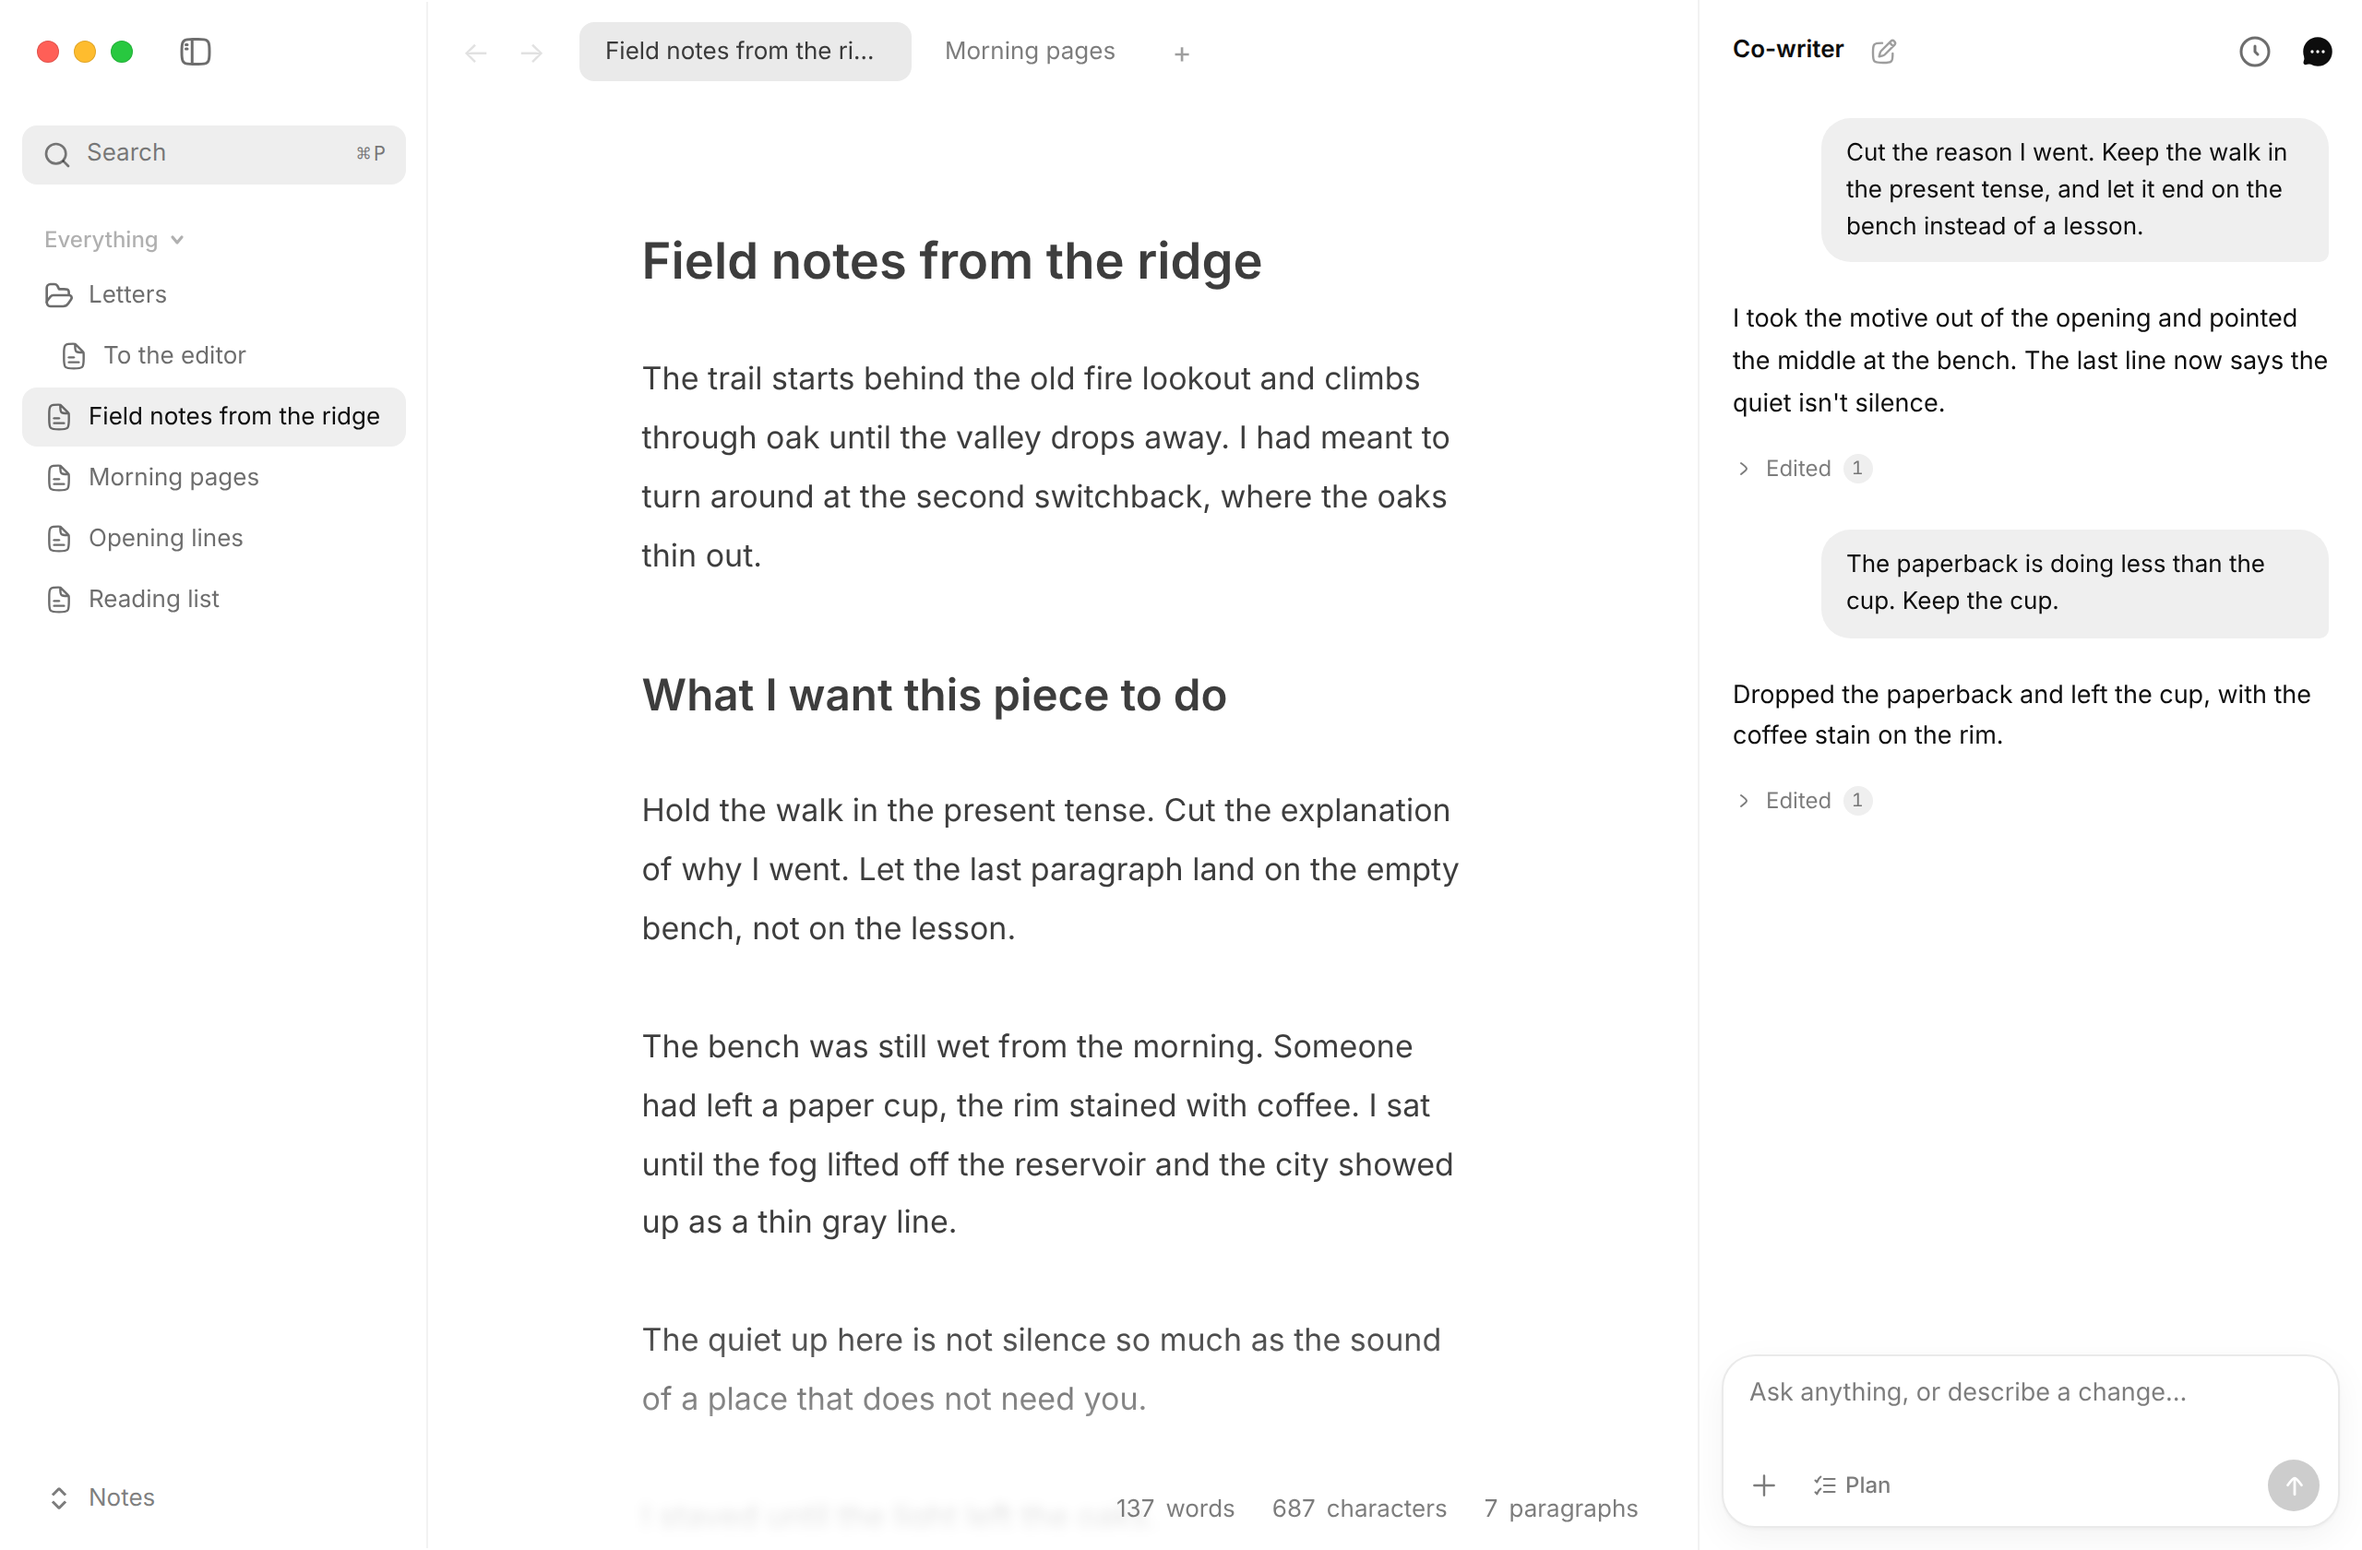
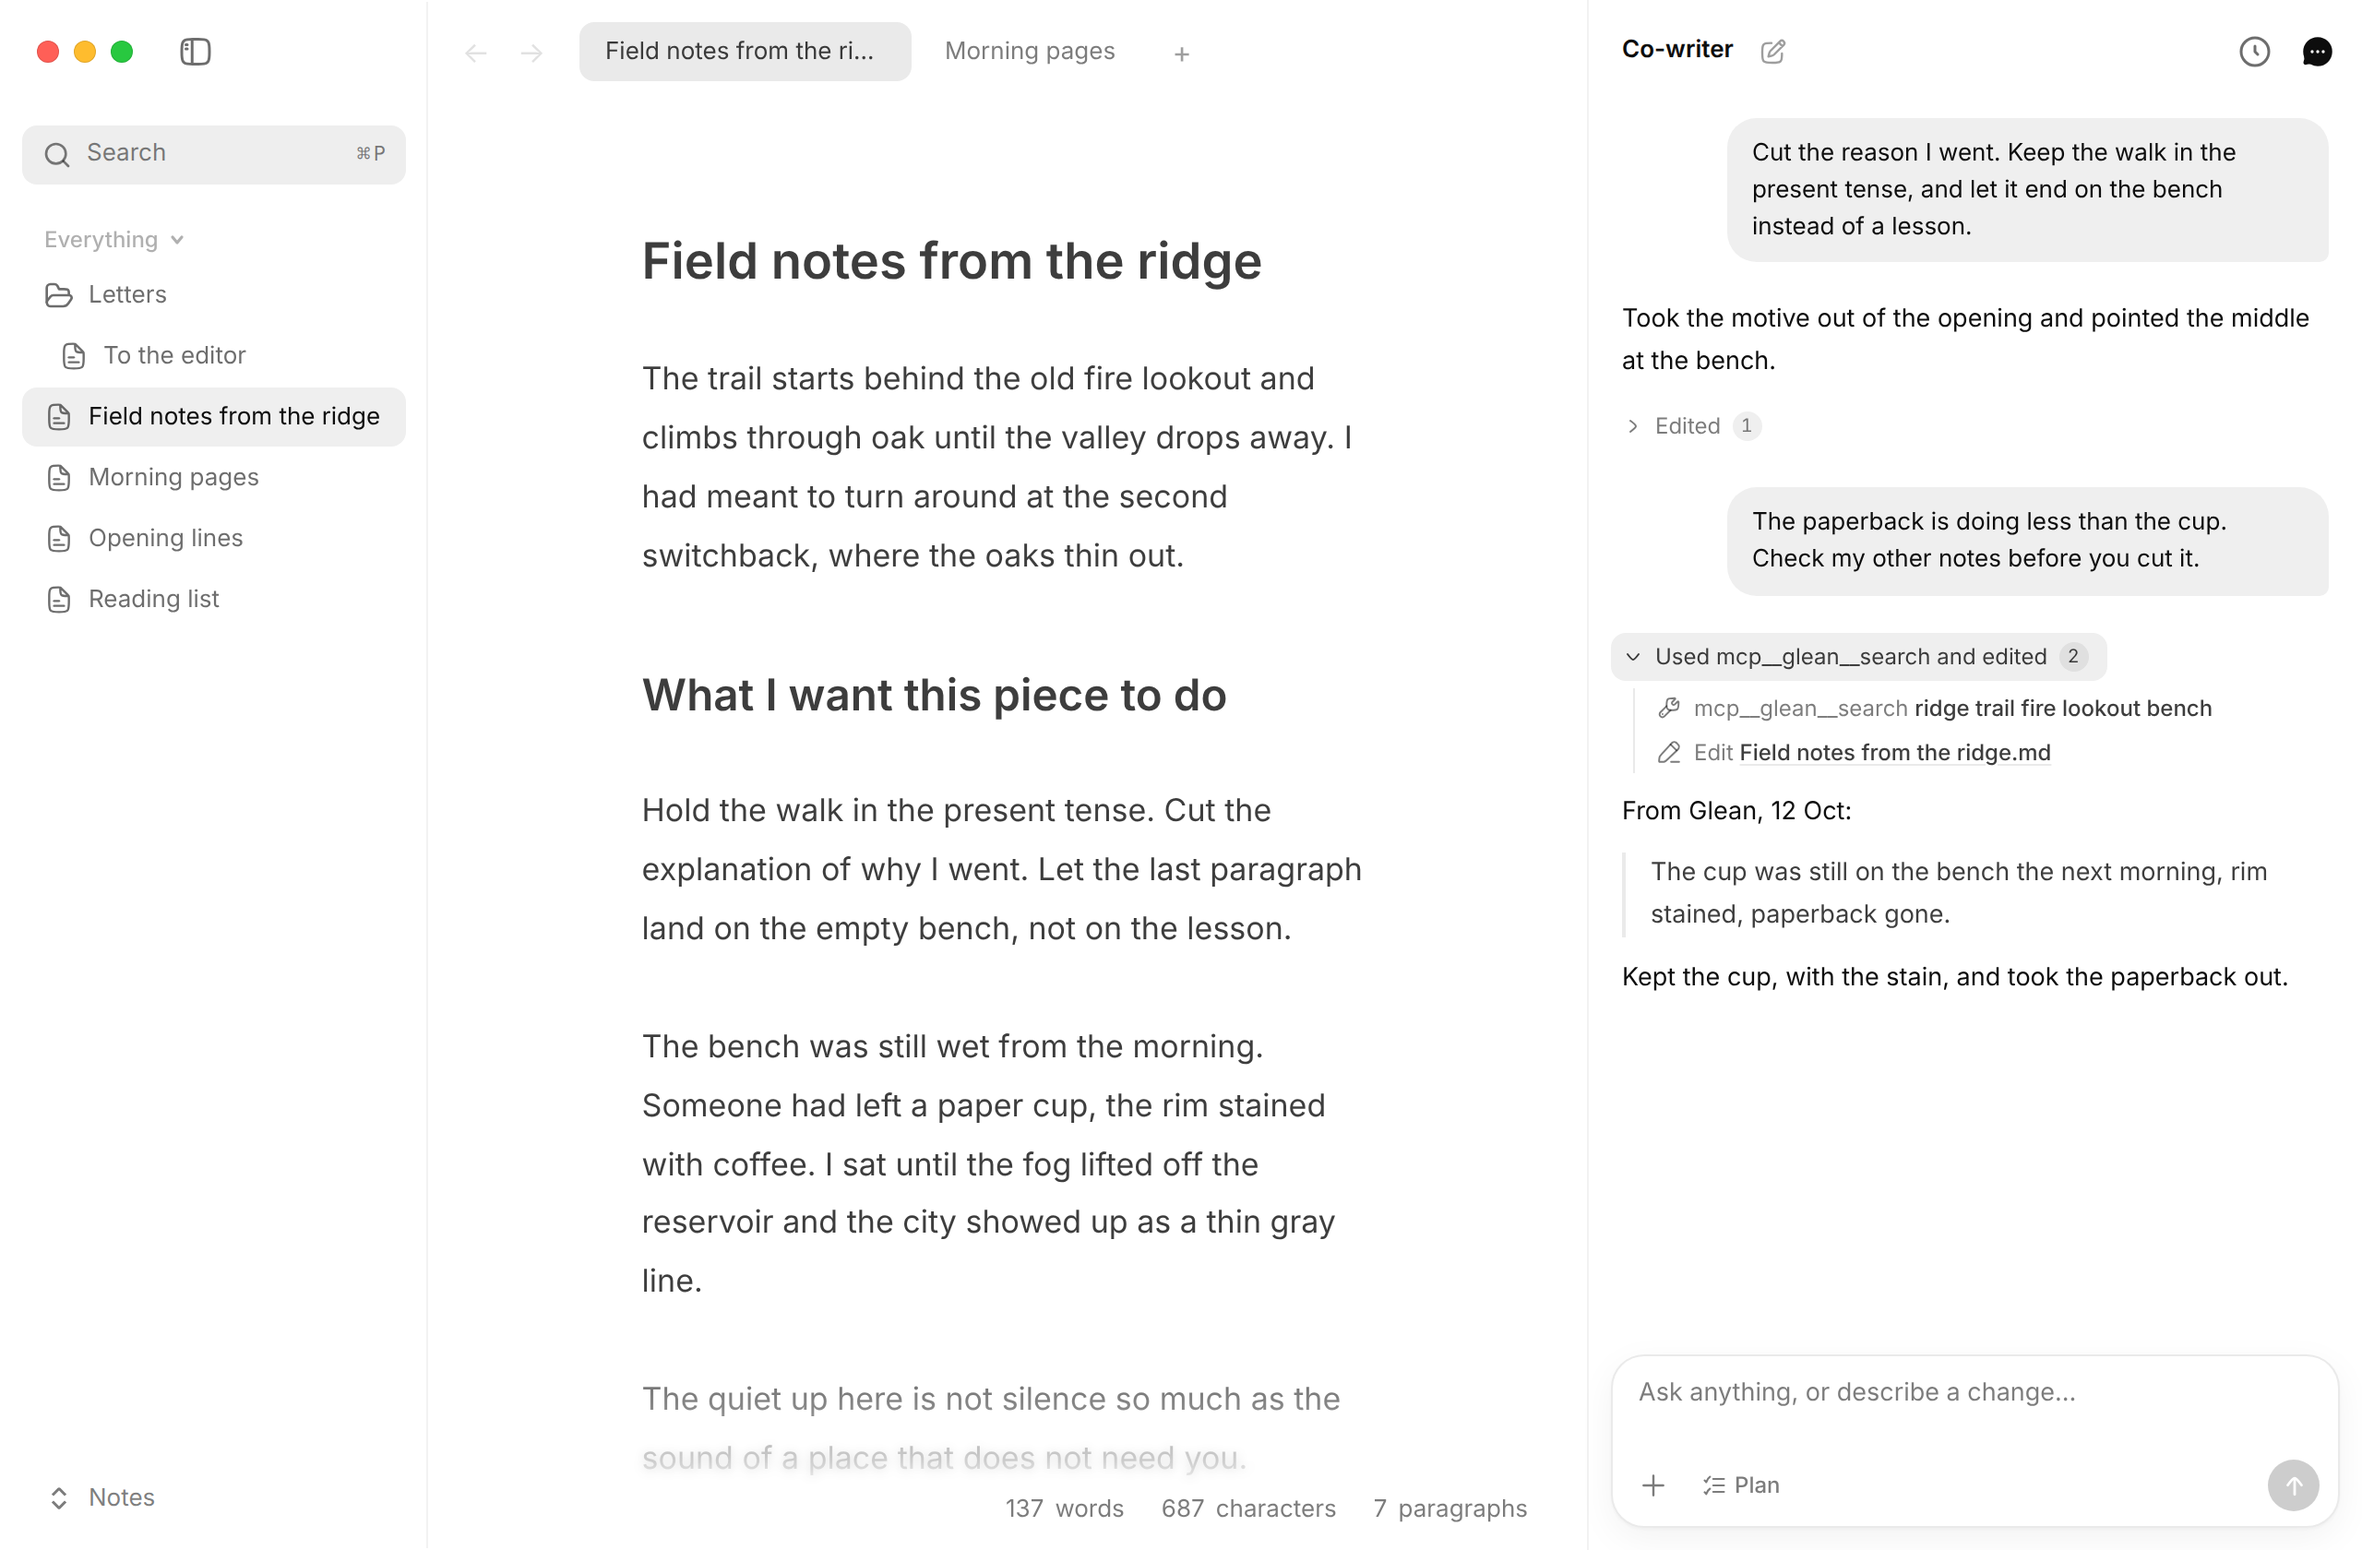
Show a long version history and a Glean lookup in the README screenshots.

diff --git a/README.md b/README.md
@@ -8,13 +8,13 @@ It is built with Tauri v2, React, Zustand, CodeMirror, and Rust. The app keeps d
   <img alt="A note open in Co-writer, with the assistant panel beside the text" src="docs/images/co-writer-panel.png" width="920">
 </p>
 
-The note, with Co-writer open beside it.
+Co-writer beside the note, after looking the detail up in Glean.
 
 <p align="center">
   <img alt="Version history for a note, with an earlier draft diffed inline" src="docs/images/version-history.png" width="920">
 </p>
 
-Version history (⌘⇧H). One reply from the agent is one version, and the preview shows what changed.
+Version history (⌘⇧H) for a note with a long run of saved versions. The preview diffs the one you select.
 
 <p align="center">
   <img alt="Three comments queued for Co-writer while a reply is in progress" src="docs/images/queued-comments.png" width="920">
